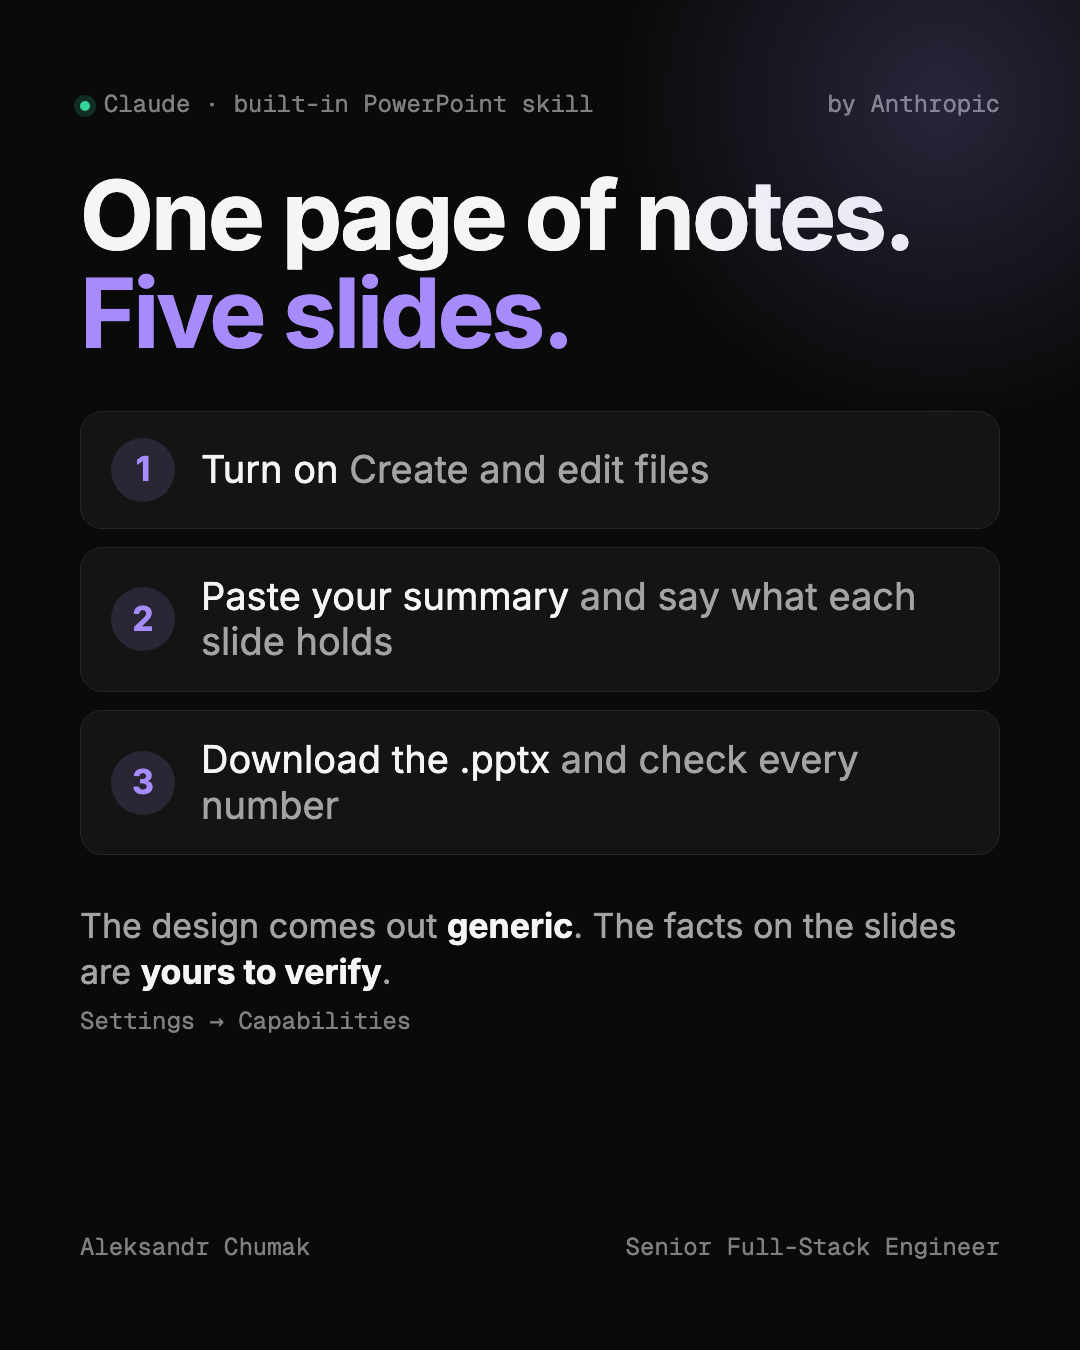
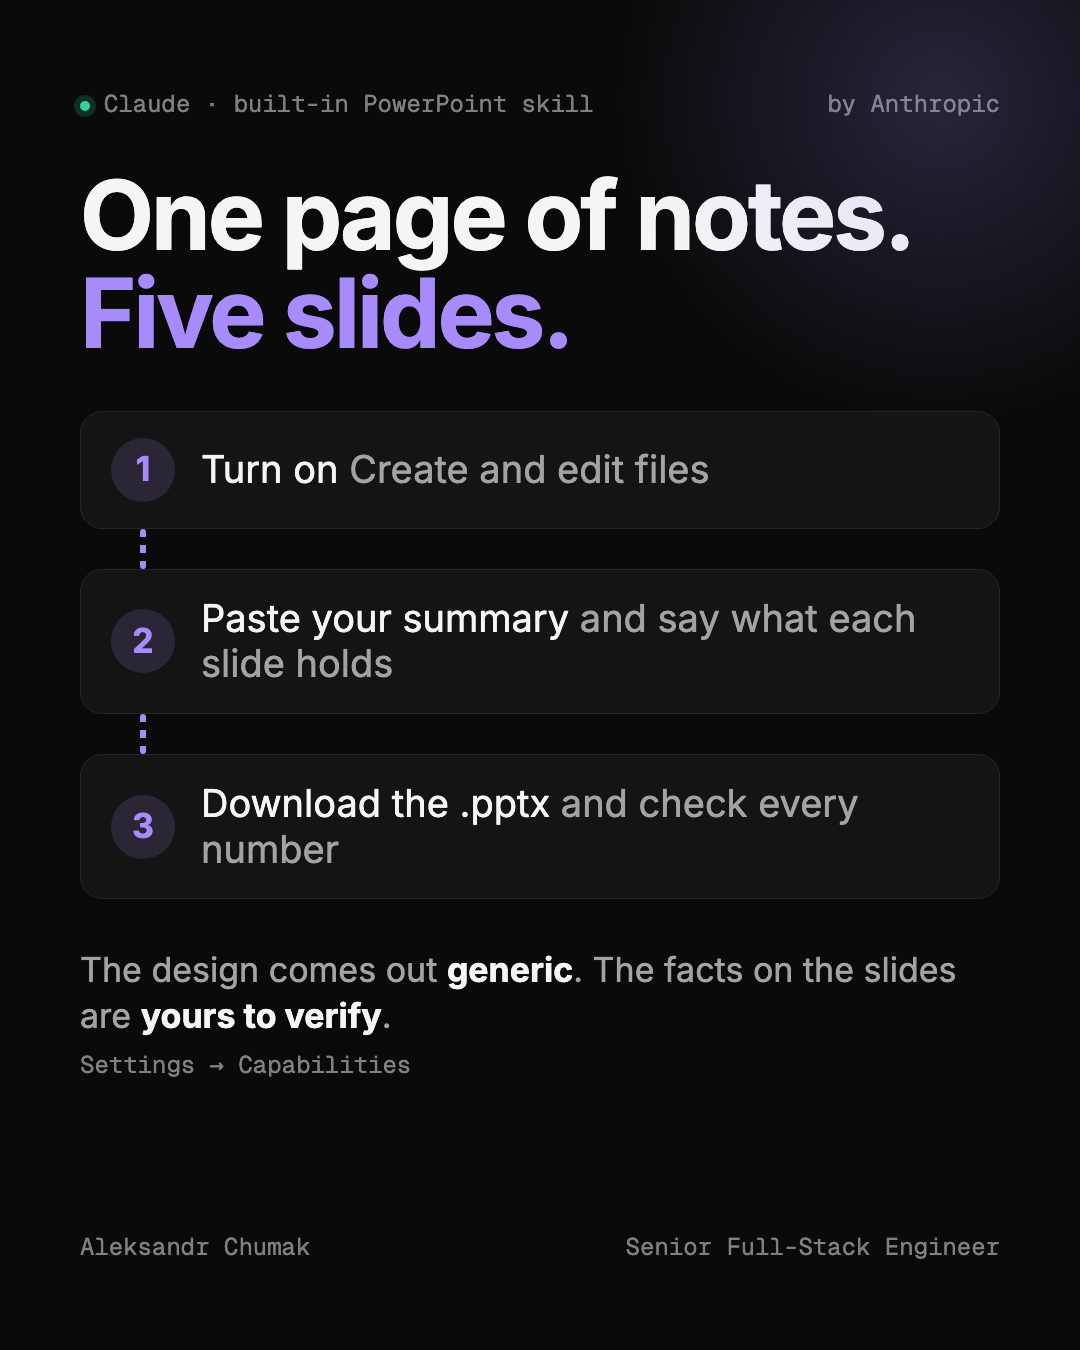
Posts: animated GIF cards for five more step posts
The running links and step highlight move from the hookify card into
card.css: a card gets them by putting <i class="link"></i> between its
.check steps. Added to three-checks, xlsx-skill, gmail-drafts,
prompt-master and pptx-skill; their still images show the links too.

Changed region(s): [[0.0611, 0.5289, 0.7944, 0.8089], [0.0917, 0.4356, 0.8556, 0.4978], [0.55, 0.6533, 0.8861, 0.7467]]

diff --git a/scripts/post-cards/hookify-hook.html b/scripts/post-cards/hookify-hook.html
@@ -25,67 +25,6 @@
         display: flex;
         flex-direction: column;
       }
-      /* Dashed link between steps; it runs and the steps light up in turn
-         only in the animated version (?anim, scripts/build-post-gif.mjs). */
-      .link {
-        width: 6px;
-        height: 40px;
-        margin-left: 60px;
-        border-radius: 3px;
-        background: repeating-linear-gradient(
-          to bottom,
-          var(--accent) 0 8px,
-          transparent 8px 16px
-        );
-      }
-      .anim .link {
-        animation: flow 1s linear infinite;
-      }
-      @keyframes flow {
-        to {
-          background-position-y: 16px;
-        }
-      }
-      .anim .check {
-        animation: step 3s linear infinite;
-      }
-      .anim .check b {
-        animation: num 3s linear infinite;
-      }
-      .anim .check:nth-of-type(2),
-      .anim .check:nth-of-type(2) b {
-        animation-delay: -2s;
-      }
-      .anim .check:nth-of-type(3),
-      .anim .check:nth-of-type(3) b {
-        animation-delay: -1s;
-      }
-      @keyframes num {
-        0%,
-        36%,
-        100% {
-          background: rgba(167, 139, 250, 0.15);
-          color: var(--accent);
-        }
-        6%,
-        30% {
-          background: var(--accent);
-          color: var(--bg);
-        }
-      }
-      @keyframes step {
-        0%,
-        36%,
-        100% {
-          border-color: var(--border);
-          background: var(--bg-elevated);
-        }
-        6%,
-        30% {
-          border-color: var(--accent);
-          background: #1d1830;
-        }
-      }
       .check {
         display: flex;
         align-items: center;

diff --git a/scripts/post-cards/card.css b/scripts/post-cards/card.css
@@ -189,3 +189,68 @@ code {
 .og .bottom {
   margin-top: 0;
 }
+
+/* Animated steps for GIF cards (?anim, scripts/build-post-gif.mjs): put
+   <i class="link"></i> between .check steps of a .checks list. */
+.checks:has(.link) {
+  gap: 0;
+}
+.link {
+  width: 6px;
+  height: 40px;
+  margin-left: 60px;
+  border-radius: 3px;
+  background: repeating-linear-gradient(
+    to bottom,
+    var(--accent) 0 8px,
+    transparent 8px 16px
+  );
+}
+.anim .link {
+  animation: flow 1s linear infinite;
+}
+@keyframes flow {
+  to {
+    background-position-y: 16px;
+  }
+}
+.anim .check {
+  animation: step 3s linear infinite;
+}
+.anim .check b {
+  animation: num 3s linear infinite;
+}
+.anim .check:nth-of-type(2),
+.anim .check:nth-of-type(2) b {
+  animation-delay: -2s;
+}
+.anim .check:nth-of-type(3),
+.anim .check:nth-of-type(3) b {
+  animation-delay: -1s;
+}
+@keyframes num {
+  0%,
+  36%,
+  100% {
+    background: rgba(167, 139, 250, 0.15);
+    color: var(--accent);
+  }
+  6%,
+  30% {
+    background: var(--accent);
+    color: var(--bg);
+  }
+}
+@keyframes step {
+  0%,
+  36%,
+  100% {
+    border-color: var(--border);
+    background: var(--bg-elevated);
+  }
+  6%,
+  30% {
+    border-color: var(--accent);
+    background: #1d1830;
+  }
+}

diff --git a/scripts/post-cards/xlsx-skill-hook.html b/scripts/post-cards/xlsx-skill-hook.html
@@ -86,10 +86,12 @@
         <b>1</b>
         <p>Settings → Capabilities <span>turn on file creation</span></p>
       </div>
+      <i class="link"></i>
       <div class="check">
         <b>2</b>
         <p>Paste a messy list, <span>ask for a sheet with formulas</span></p>
       </div>
+      <i class="link"></i>
       <div class="check">
         <b>3</b>
         <p>Download the .xlsx <span>and click a total cell</span></p>

diff --git a/scripts/post-cards/gmail-drafts-hook.html b/scripts/post-cards/gmail-drafts-hook.html
@@ -86,10 +86,12 @@
         <b>1</b>
         <p>Connect Gmail <span>in Customize → Connectors</span></p>
       </div>
+      <i class="link"></i>
       <div class="check">
         <b>2</b>
         <p>Set sending tools to Blocked <span>under Tool permissions</span></p>
       </div>
+      <i class="link"></i>
       <div class="check">
         <b>3</b>
         <p>Read every draft, <span>then send it yourself</span></p>

diff --git a/scripts/post-cards/pptx-skill-hook.html b/scripts/post-cards/pptx-skill-hook.html
@@ -86,10 +86,12 @@
         <b>1</b>
         <p>Turn on <span>Create and edit files</span></p>
       </div>
+      <i class="link"></i>
       <div class="check">
         <b>2</b>
         <p>Paste your summary <span>and say what each slide holds</span></p>
       </div>
+      <i class="link"></i>
       <div class="check">
         <b>3</b>
         <p>Download the .pptx <span>and check every number</span></p>

diff --git a/scripts/post-cards/three-checks-hook.html b/scripts/post-cards/three-checks-hook.html
@@ -86,10 +86,12 @@
         <b>1</b>
         <p>Every number and name <span>vs the source</span></p>
       </div>
+      <i class="link"></i>
       <div class="check">
         <b>2</b>
         <p>Every claim <span>you'd defend</span></p>
       </div>
+      <i class="link"></i>
       <div class="check">
         <b>3</b>
         <p>Length and tone <span>like yours</span></p>

diff --git a/scripts/post-cards/prompt-master-hook.html b/scripts/post-cards/prompt-master-hook.html
@@ -86,10 +86,12 @@
         <b>1</b>
         <p>Upload it <span>Customize → Skills</span></p>
       </div>
+      <i class="link"></i>
       <div class="check">
         <b>2</b>
         <p>Name the AI tool <span>and the goal</span></p>
       </div>
+      <i class="link"></i>
       <div class="check">
         <b>3</b>
         <p>Answer up to 3 questions</p>
